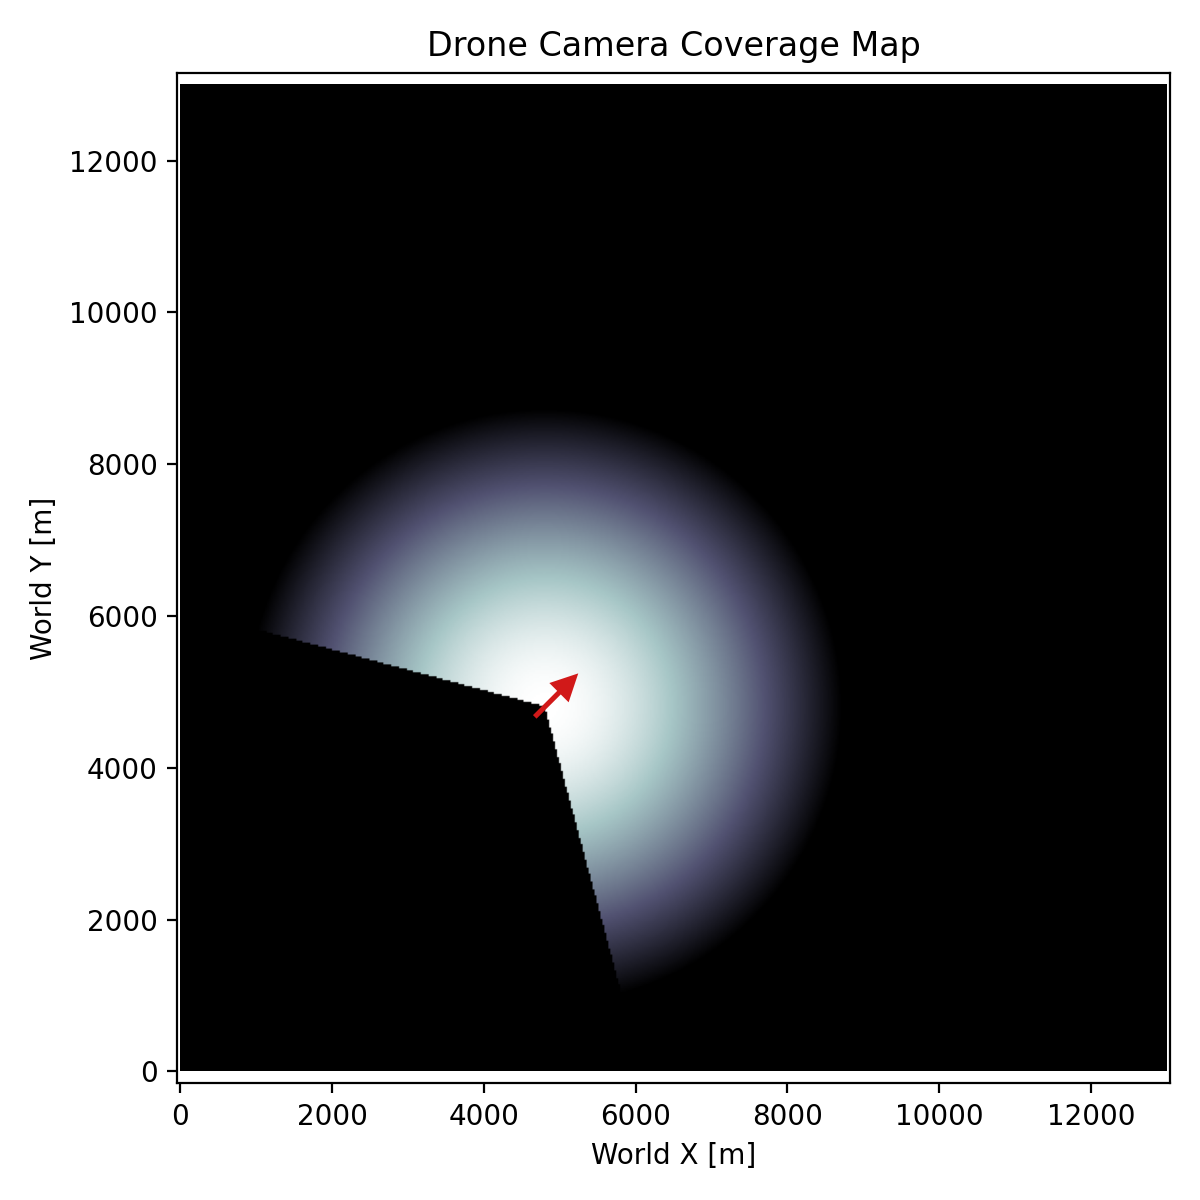
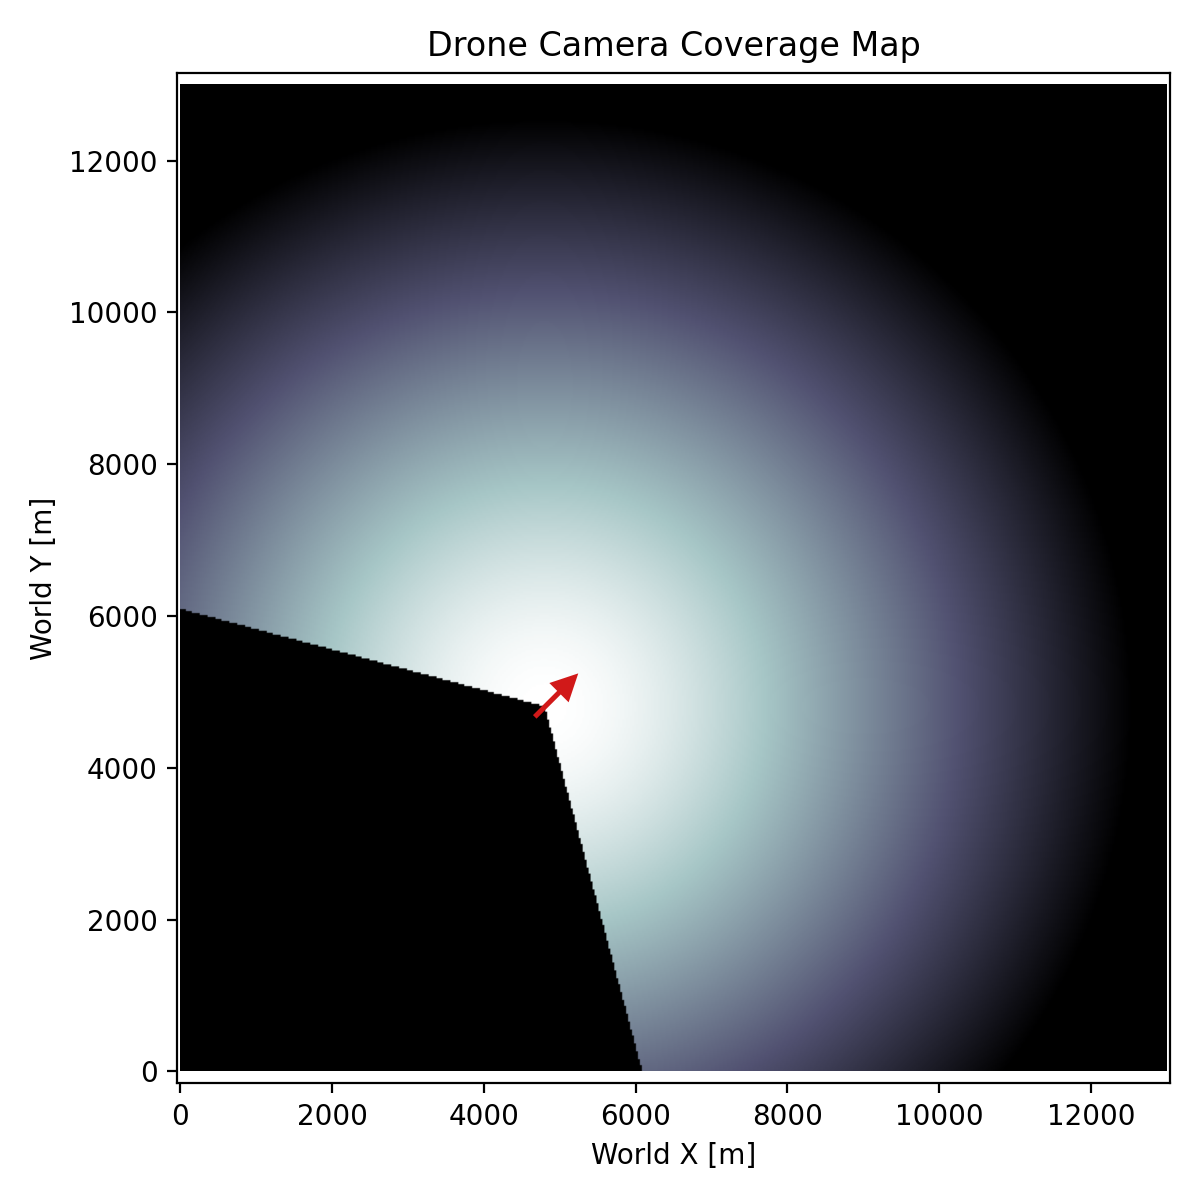
pitch images

diff --git a/src/plot.py b/src/plot.py
@@ -133,7 +133,7 @@ def plot_drone_view_cone_no_terrain():
 
     map_shape = (500, 500, 8)
     pixel_size = 26
-    terrain = 0.1 * np.ones(map_shape)
+    terrain =  np.ones(map_shape)
     # terrain = np.flip(terrain)
     # terrain[:, :, 4:] *= 0.9
     # terrain[:, :, :4] *= 0.5
@@ -165,6 +165,8 @@ def plot_drone_view_cone_no_terrain():
     plt.savefig("img/drone_view_cone_no_terrain.png")
     plt.show()
 
+plot_drone_view_cone_no_terrain()
+
 
 
 def plot_terrain():
@@ -188,4 +190,3 @@ def plot_terrain():
     plt.show()
 
 
-plot_drone_view_cone_no_terrain()
